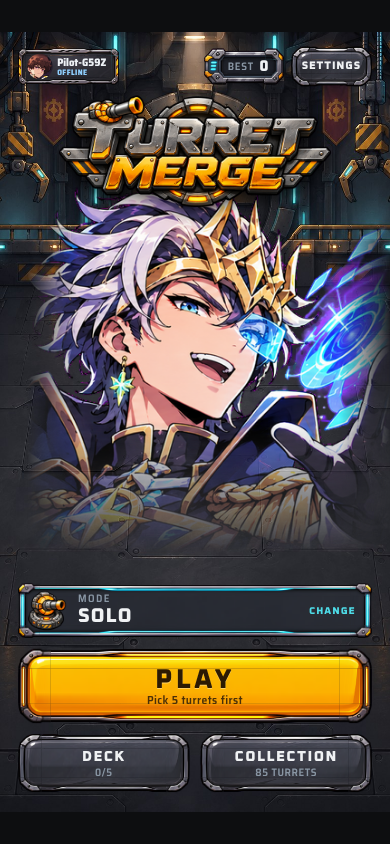
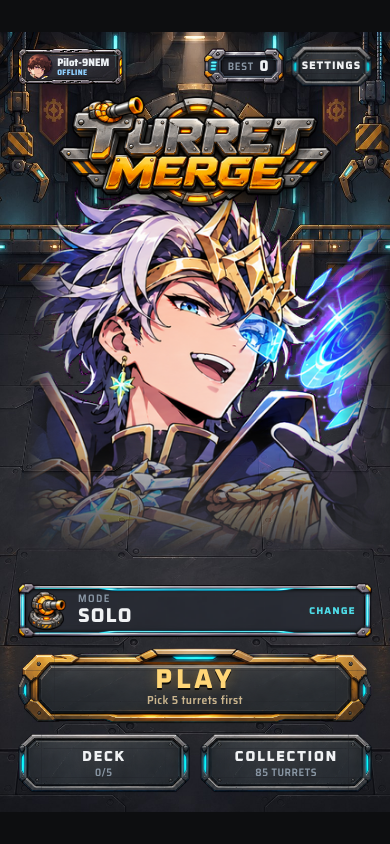
thap: HUD mượt A — nối raw_p7_a1 (nút chính đồng / nút phụ thép / tấm bảng trượt: p7_nut1, p7_nut2, p7_tam + trạng thái ấn/tắt)
Claude-Session: https://claude.ai/code/session_016VkJ26f22ubevy4EnREsEV

Changed region(s): [[0.0308, 0.7701, 0.9538, 0.955], [0.7385, 0.0308, 0.9538, 0.1232], [0.2154, 0.0308, 0.3385, 0.1232]]

diff --git a/thap/css/hudmuot-a.css b/thap/css/hudmuot-a.css
@@ -225,3 +225,16 @@
 #chon #chon-luoi::-webkit-scrollbar, .hm-tam::-webkit-scrollbar { display: none; width: 0; height: 0; }
 #chon #chon-luoi .luoi { min-width: 0; }
 #chon #chon-luoi .c { min-width: 0; }
+
+/* ===== Pass 7 — raw_p7_a1 đã nối (tools/thap-cat-p7-a.py): A02 nút chính p7_nut1(_an/_tat) · A03 nút phụ p7_nut2(_an) · A01 tấm p7_tam ===== */
+.hm-choi, .hm-nut2.vang { color: #ffd677; border-image: url(../assets/p7_nut1.png) 74 128 fill / 24px 40px stretch; }
+.hm-choi b { text-shadow: 0 2px 0 #000c, 0 0 14px #ffb93a55; }
+.hm-choi small { color: #c9b48d; }
+.hm-nut2.vang { color: #ffd677; border-image-width: 18px 30px; }
+#chon button.hm-choi.hm-an, #hm-mo button.hm-nut2.vang.hm-an { border-image-source: url(../assets/p7_nut1_an.png); filter: none; }
+#chon button.hm-choi:disabled { border-image-source: url(../assets/p7_nut1_tat.png); filter: none; color: var(--m-mo); }
+#chon button.hm-choi:disabled small { color: var(--m-mo); }
+.hm-tab button, .hm-nut2:not(.vang), .hm-ic:not(.dk-lui) { border-image: url(../assets/p7_nut2.png) 56 92 fill / 16px 26px stretch; }
+.hm-ic:not(.dk-lui) { border-image-width: 14px 22px; }
+#chon button.hm-an:not(.hm-choi):not(.dk-lui), #hm-mo button.hm-nut2.hm-an:not(.vang), #hm-mo .hm-ic.hm-an { border-image-source: url(../assets/p7_nut2_an.png); filter: none; }
+.hm-tam { border-image: url(../assets/p7_tam.png) 52 70 fill / 18px 24px stretch; padding: 22px 24px 30px; }

diff --git a/tools/thap-cat-p7-a.py b/tools/thap-cat-p7-a.py
@@ -1,0 +1,18 @@
+# -*- coding: utf-8 -*-
+"""TURRET MERGE — cắt tấm Pass 7 — home/deck (HUD mượt A, HINH-VE-CODE-AUDIT.md) → thap/assets/p7_*.png.
+Khoá magenta (tach_nen của tools/thap-cat-hud2.py: viền alpha mềm, khử trộn hồng). Không phóng quá tấm raw
+(nút/tấm hiển thị ≤ 390 css → raw ~820 px ≈ 2.1×, giữ nguyên độ nét gốc). Chạy: python3 tools/thap-cat-p7-a.py
+Tấm nào chưa có thì bỏ qua."""
+import os
+GOC = os.path.dirname(os.path.dirname(os.path.abspath(__file__)))
+src = open(os.path.join(GOC, 'tools/thap-cat-hud2.py'), encoding='utf-8').read()
+exec(src[:src.index('# ---------- 01 nút SUMMON')])  # tach_nen, cat, co, luu, cung_khung …
+def co_tam(ten): return os.path.exists(os.path.join(NGUON, ten))
+# raw_p7_a1 · 1024×1536 · 1 cột × 6 hàng (ô 1024×256): A02 vàng thường / ấn / tắt · A03 thép thường / ấn · A01 tấm trung tính
+if co_tam('raw_p7_a1.png'):
+    R = 'raw_p7_a1.png'; o = lambda i: cat(R, (0, i * 256, 1024, i * 256 + 256))
+    v = cung_khung([o(0), o(1), o(2)]); t = cung_khung([o(3), o(4)])
+    for im, n, g in [(v[0], 'p7_nut1', 'nút chính (PLAY, ADD) thường'), (v[1], 'p7_nut1_an', 'nút chính ấn'), (v[2], 'p7_nut1_tat', 'nút chính tắt'),
+                     (t[0], 'p7_nut2', 'nút phụ thường'), (t[1], 'p7_nut2_an', 'nút phụ ấn'), (o(5), 'p7_tam', 'tấm trung tính A01 (bảng trượt / hàng)')]:
+        luu(im, n + '.png', g)
+for x in BAO: print(*x)

diff --git a/docs/demo-hop-tuong/HINH-VE-CODE-AUDIT.md b/docs/demo-hop-tuong/HINH-VE-CODE-AUDIT.md
@@ -978,4 +978,4 @@ và `css/hud2.css` (thanh trên, khay, nút).
 
 Thứ tự ưu tiên: b1 (thanh + dải xem nhanh) → b2 (nút) → b4 → b3.
 
-**Pass 7 home/deck — đã nối:** `raw_p7_h01` → `thap/assets/nen_home.jpg` (nền HOME), `raw_p7_d00` → `thap/assets/nen_deck.jpg` (nền màn bộ bài) — 1024×1536 đục, giữ nguyên độ nét tấm raw. Các tấm còn lại (h02, a1–a8, d02) đang chờ; chỗ dùng tạm ghi ở đầu `thap/css/hudmuot-a.css`.
+**Pass 7 home/deck — đã nối:** `raw_p7_h01` → `thap/assets/nen_home.jpg` (nền HOME), `raw_p7_d00` → `thap/assets/nen_deck.jpg` (nền màn bộ bài) — 1024×1536 đục, giữ nguyên độ nét tấm raw; `raw_p7_a1` → `p7_nut1(_an/_tat)`, `p7_nut2(_an)`, `p7_tam` (`tools/thap-cat-p7-a.py`). Các tấm còn lại (h02, a2–a8, d02) đang chờ; chỗ dùng tạm ghi ở đầu `thap/css/hudmuot-a.css`.
